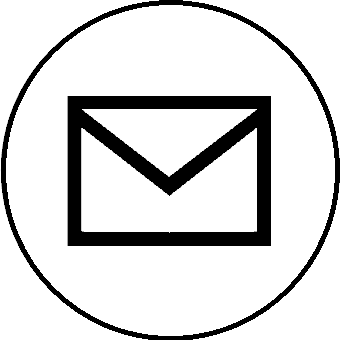
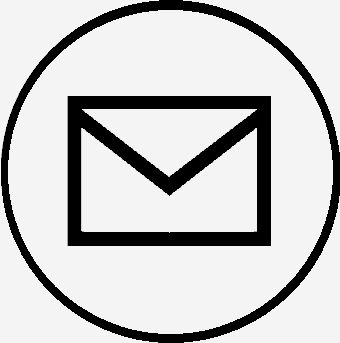
continue to fix the other pages and same colour across everything

diff --git a/about.html b/about.html
@@ -136,7 +136,7 @@ the git Repositary.
 
 <br></br>
 I was happy to get this website live with my custom domain name and seeing it from where it started 
-to where it's now. I wasadapted for both desktop, tablet and mobile size. 
+to where it's now. I was happy as this was my first website where I was able to adapt it for both the desktop, tablet and mobile size. 
  </div>
  
 
@@ -162,7 +162,7 @@ to where it's now. I wasadapted for both desktop, tablet and mobile size.
  <td id="row3-2">
 
  <h3 id="contact"> <a href="contact.html">Contact</a></h3>
-        <a href="contact.html"> <img src= "images/contact.png" id="contactimage" alt="Letter Icon"></a>
+        <a href="contact.html"> <img src= "images/contact2.png" id="contactimage" alt="Letter Icon"></a>
  </td>
  </tr>
   <tr > 
@@ -176,11 +176,11 @@ to where it's now. I wasadapted for both desktop, tablet and mobile size.
  </table>
 </div>
 
-<div id="sidemenu2">
+<div id="sidemenu3">
 <br></br>
 <center> <a href="#return"><font id="ok">Return to the top of the page</font></a></center>
-<br></br>
- <center> <a href="#home"><img src="images/up2.png"  id="up"width="100" height="100"></a></center>
+
+ <center> <a href="#home"><img src="images/up2.png"  id="up2"></a></center>
 
 </div>
  
@@ -189,7 +189,6 @@ to where it's now. I wasadapted for both desktop, tablet and mobile size.
 
 <!--this is the abovefooter area that acts the other area to go to the other links-->
 <div id="abovefooter" style="clear:both;text-align:center;height:30px;float:bottom;">
-<br></br>
 <center>
 <table id="table2" style="width:100%;text-align:center;">
  <td><a href="about.html" ondblclick="detectClick()">About  </a></td>
@@ -199,7 +198,7 @@ to where it's now. I wasadapted for both desktop, tablet and mobile size.
 </table></center>
  </div>
  
-  <br></br>
+ 
 
   
   <!--this is the footer class that displays a copyright that the website belongs to me-->

diff --git a/feedback.html b/feedback.html
@@ -120,7 +120,7 @@ $(document).ready(function(){
 <div id="mainmenu">
 <br></br>
 
-<iframe src="https://docs.google.com/forms/d/1Rgvgk32e5GTOGn5nHvlGEgpb0xxp50aIoVZwm5uSQcY/viewform?embedded=true" width="100%" height="1000" frameborder="0" marginheight="0" marginwidth="0">Loading...</iframe>
+<iframe src="https://docs.google.com/forms/d/1Rgvgk32e5GTOGn5nHvlGEgpb0xxp50aIoVZwm5uSQcY/viewform?embedded=true" width="100%" height="1050" frameborder="0" marginheight="0" marginwidth="0">Loading...</iframe>
 </div>
 
 <div id="sidemenu">
@@ -145,7 +145,7 @@ $(document).ready(function(){
  <td id="row3-2">
 
 <h3 id="contact"> <a href="contact.html">Contact</a></h3>
-        <a href="contact.html"> <img src= "images/contact.png" id="contactimage" alt="Letter Icon"></a>
+        <a href="contact.html"> <img src= "images/contact2.png" id="contactimage" alt="Letter Icon"></a>
  </td>
  </tr>
   <tr > 
@@ -164,15 +164,15 @@ $(document).ready(function(){
 <div id="sidemenu3">
 <br></br>
 <center> <a href="#return"><font id="ok">Return to the top of the page</font></a></center>
-<br></br>
- <center> <a href="#home"><img src="images/up2.png"  id="up"width="100" height="100"></a></center>
+
+ <center> <a href="#home"><img src="images/up2.png"  id="up2"></a></center>
 
 </div>
 
 
 <!--this is the abovefooter area that acts the other area to go to the other links-->
 <div id="abovefooter" style="clear:both;text-align:center;height:30px;float:bottom;">
-<br></br>
+
 <center>
 <table id="table2" style="width:100%;text-align:center;">
  <td><a href="about.html" ondblclick="detectClick()">About  </a></td>
@@ -182,7 +182,7 @@ $(document).ready(function(){
 </table></center>
  </div>
  
-  <br></br>
+
 
   
   <!--this is the footer class that displays a copyright that the website belongs to me-->

diff --git a/contact.html b/contact.html
@@ -171,7 +171,7 @@ appreciate any feedback.
  <td id="row3-2">
 
 <h3 id="contact"> <a href="contact.html">Contact</a></h3>
-        <a href="contact.html"> <img src= "images/contact.png" id="contactimage" alt="banner"></a>
+        <a href="contact.html"> <img src= "images/contact2.png" id="contactimage" alt="banner"></a>
  </td>
  </tr>
   <tr > 
@@ -188,11 +188,11 @@ appreciate any feedback.
  </table>
 </div>
 
-<div id="sidemenu2">
+<div id="sidemenu3">
 <br></br>
 <center> <a href="#return"><font id="ok">Return to the top of the page</font></a></center>
-<br></br>
- <center> <a href="#home"><img src="images/up2.png"  id="up"width="100" height="100"></a></center>
+
+ <center> <a href="#home"><img src="images/up2.png"  id="up2"></a></center>
 
 </div>
  
@@ -200,7 +200,6 @@ appreciate any feedback.
 
 <!--this is the abovefooter area that acts the other area to go to the other links-->
 <div id="abovefooter" style="clear:both;text-align:center;height:30px;float:bottom;">
-<br></br>
 <center>
 <table id="table2" style="width:100%;text-align:center;">
  <td><a href="about.html" ondblclick="detectClick()">About  </a></td>
@@ -210,7 +209,6 @@ appreciate any feedback.
 </table></center>
  </div>
  
-  <br></br>
 
   
   <!--this is the footer class that displays a copyright that the website belongs to me-->

diff --git a/index.html b/index.html
@@ -305,7 +305,7 @@ I have a keen interest in tennis and table tennis. I Begun learning Android Deve
  <td id="row3">
 
   <h3 id="contact"> <a href="contact.html">Contact</a></h3>
-        <a href="contact.html"> <img src= "images/contact.png" id="contactimage" alt="Letter Icon"></a>
+        <a href="contact.html"> <img src= "images/contact2.png" id="contactimage" alt="Letter Icon"></a>
  </td>
  </tr>
   <tr > 

diff --git a/style_large.css b/style_large.css
@@ -102,7 +102,7 @@ width:15%;
    padding-top: 0px;
   background-color:#FAFAFF;
   float:left;
- width:85%;
+ width:100%;
    ..border-top-style: inset;
  
 }
@@ -319,6 +319,12 @@ font-size:30px;
 width:100px;
  height:100px;
 }
+
+#up2{
+width:80px;
+ height:80px;
+}
+
 
 #important
 {
